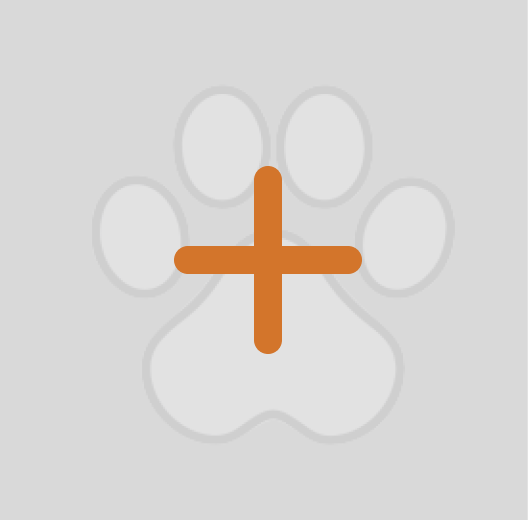
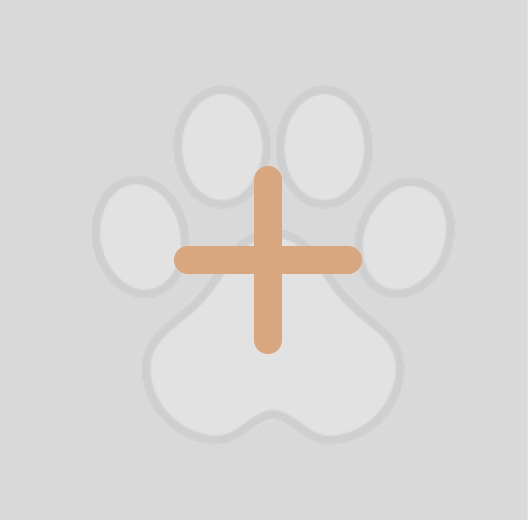
Added border to food image

Changed region(s): [[0.3333, 0.3077, 0.697, 0.6769]]

diff --git a/src/components/FoodImage.components.js b/src/components/FoodImage.components.js
@@ -1,48 +1,61 @@
 import React, { useState, useEffect } from 'react';
 import axios from "axios";
-import {ImageCircle} from './ImageCircle.components'
+import { ImageCircle } from './ImageCircle.components';
+import Spinner from './Spinner.components'; // Import your Spinner component
+import * as colors from './styles/Colors'
 
-const FoodImage = ({ foodItem, imageDataUrl, width = '150px', height='150px',  borderWidth = '2px', borderColor = 'white', onClick  }) => {
-  const [image, setImage] = useState(foodItem.image)
-  const backendEndpoint = process.env.REACT_APP_BACKEND_URL
+const FoodImage = ({ foodItem, imageDataUrl, width = '150px', borderRadius, borderWidth, borderColor, onClick , isEditing = true }) => {
+  const [image, setImage] = useState(foodItem.image);
+  const [loading, setLoading] = useState(true); // Added loading state
+  const backendEndpoint = process.env.REACT_APP_BACKEND_URL;
 
   useEffect(() => {
     console.log("FoodImage foodItem.image", foodItem.image);
     console.log("FoodImage imageDataUrl", imageDataUrl);
-     // Function to fetch image data when component mounts
-     if (imageDataUrl) {
-       setImage(imageDataUrl)
-     } else {
-        fetchImage()  
-     }
-  }, [foodItem, image]);
+    // Function to fetch image data when component mounts
+    if (imageDataUrl) {
+      setImage(imageDataUrl);
+      setLoading(false); // Set loading to false when imageDataUrl is available
+    } else {
+      fetchImage();
+    }
+  }, [foodItem, image, imageDataUrl]);
 
   // Function to fetch image data when component mounts
   const fetchImage = async () => {
     try {
-      const type = 'url'
+      const type = 'url';
       const result = await axios.get(`${backendEndpoint}/food/${foodItem?.userId}/${foodItem?._id}?type=${type}`);
       if (result.data) {
-        setImage(result.data)
+        setImage(result.data);
+        setLoading(false); // Set loading to false when the image is fetched
       }
       console.log("FoodImage", result.data);
-      return 
+      return;
     } catch (error) {
       console.log("Error fetching image:", error);
+      setLoading(false); // Set loading to false in case of an error
     }
   };
 
-  console.log("FoodImage  image",  image);
+  console.log("FoodImage  image", image);
   return (
     <div onClick={onClick}>
-      <ImageCircle
-            imageName={"add_food_placeholder_green.png"}
-            width= {width}
-            height={width}
-            imageDataUrl={imageDataUrl ? imageDataUrl : image}
-      />
+      {loading ? (
+        <Spinner/>  
+      ) : (
+        <ImageCircle
+          imageName={isEditing ? "add_food_placeholder_orange.png" : "food_placeholder.png"}
+          width={width}
+          height={width}
+          imageDataUrl={imageDataUrl ? imageDataUrl : image}
+          borderRadius={borderRadius}
+          borderWidth={borderWidth}
+          borderColor={colors.lightOrange}
+        />
+      )}
     </div>
   );
 };
 
-export default FoodImage ;
+export default FoodImage;

diff --git a/src/components/ChangeImageDialog.component.js b/src/components/ChangeImageDialog.component.js
@@ -1,7 +1,6 @@
 /** @jsxImportSource @emotion/react */
 
-import { useContext, useState, useEffect } from 'react'
-import { UserContext } from "../contexts/user.context"
+import { useRef, useState, useEffect } from 'react'
 import * as styles  from './styles/Profile.css'
 import {ButtonImage} from "./Buttons.components"
 import {Image} from './Image.components'
@@ -13,16 +12,28 @@ import '../components/styles/styles.css'
 
 const ChangeImageDialog = ({foodItem, onClose, setFoodItem}) => {
     const [imageSelected, setImageSelected] = useState( null);
-    const [croppedImage, setCroppedImage] = useState(null); 
     const backendEndpoint = process.env.REACT_APP_BACKEND_URL
+    const cropperRef = useRef(null);
+    let croppedImage = null; 
 
-    // Updates  the cropped image in the state
+    // Updates the cropped image in the state
     const onChange = (cropper) => {
-      if (cropper) {
-        setCroppedImage(cropper.getCanvas());
-      }
-    }
+      if (cropperRef.current) {
+        const canvas = cropperRef.current.getCanvas();
+        if (canvas) {
+          // Convert the canvas to a Blob
+          canvas.toBlob((blob) => {
+            if (blob) {
+              // Create a File from the Blob
+              const file = new File([blob], 'cropped_image.jpg', { type: 'image/jpeg' });
 
+              // Update the state with the cropped image File
+              croppedImage = file
+            }
+          }, 'image/jpeg');
+        }
+      }
+    };
     const handleSelect = () => {
       try {
         // Create an input element to trigger file selection
@@ -189,6 +200,7 @@ const isImageEmpty = () => {
       { imageSelected ? 
       (
          <Cropper
+            ref={cropperRef}
             src={URL.createObjectURL(imageSelected)}
             onChange={onChange}
             className="cropper"

diff --git a/src/components/ChangeAvatarDialog.component.js b/src/components/ChangeAvatarDialog.component.js
@@ -1,7 +1,6 @@
 /** @jsxImportSource @emotion/react */
 
-import { useContext, useState, useEffect } from 'react'
-import { UserContext } from "../contexts/user.context"
+import { useState, useEffect, useRef } from 'react'
 import * as styles  from './styles/Profile.css'
 import {ButtonImage} from "./Buttons.components"
 import {ImageCircle} from './ImageCircle.components'
@@ -13,13 +12,27 @@ import '../components/styles/styles.css'
 
 const ChangeAvatarDialog = ({updateCurrentProfile, onClose, profile }) => {
     const [imageSelected, setImageSelected] = useState( null);
-    const [croppedImage, setCroppedImage] = useState(null); 
+    // const [croppedImage, setCroppedImage] = useState(null); 
     const backendEndpoint = process.env.REACT_APP_BACKEND_URL
+    const cropperRef = useRef(null);
+    let croppedImage = null; 
 
-    // Updates  the cropped image in the state
+    // Updates the cropped image in the state
     const onChange = (cropper) => {
-      if (cropper) {
-        setCroppedImage(cropper.getCanvas());
+      if (cropperRef.current) {
+        const canvas = cropperRef.current.getCanvas();
+        if (canvas) {
+          // Convert the canvas to a Blob
+          canvas.toBlob((blob) => {
+            if (blob) {
+              // Create a File from the Blob
+              const file = new File([blob], 'cropped_image.jpg', { type: 'image/jpeg' });
+
+              // Update the state with the cropped image File
+              croppedImage = file
+            }
+          }, 'image/jpeg');
+        }
       }
     };
 
@@ -188,6 +201,7 @@ const isAvatarEmpty = () => {
       { imageSelected ? 
       (
          <Cropper
+            ref={cropperRef}
             src={URL.createObjectURL(imageSelected)}
             onChange={() => {onChange()}}
             className="cropper"

diff --git a/src/components/AddImageDialog.component.js b/src/components/AddImageDialog.component.js
@@ -1,7 +1,6 @@
 /** @jsxImportSource @emotion/react */
 
-import { useContext, useState, useEffect } from 'react'
-import { UserContext } from "../contexts/user.context"
+import { useRef, useState, useEffect } from 'react'
 import * as styles  from './styles/Profile.css'
 import {ButtonImage} from "./Buttons.components"
 import {ImageCircle} from './ImageCircle.components'
@@ -13,13 +12,26 @@ import '../components/styles/styles.css'
 
 const AddImageDialog = ({foodItem, onClose, setFoodItem, image, setImage}) => {
     const [imageSelected, setImageSelected] = useState( image);
-    const [croppedImage, setCroppedImage] = useState(null); 
     const backendEndpoint = process.env.REACT_APP_BACKEND_URL
+    const cropperRef = useRef(null);
+    let croppedImage = null; 
 
-    // Updates  the cropped image in the state
+    // Updates the cropped image in the state
     const onChange = (cropper) => {
-      if (cropper) {
-        setCroppedImage(cropper.getCanvas());
+      if (cropperRef.current) {
+        const canvas = cropperRef.current.getCanvas();
+        if (canvas) {
+          // Convert the canvas to a Blob
+          canvas.toBlob((blob) => {
+            if (blob) {
+              // Create a File from the Blob
+              const file = new File([blob], 'cropped_image.jpg', { type: 'image/jpeg' });
+
+              // Update the state with the cropped image File
+              croppedImage = file
+            }
+          }, 'image/jpeg');
+        }
       }
     };
 
@@ -192,6 +204,7 @@ const isImageEmpty = () => {
       { imageSelected ? 
       (
          <Cropper
+            ref={cropperRef}
             src={URL.createObjectURL(imageSelected)}
             onChange={onChange}
             className="cropper"

diff --git a/src/components/AddAvatarDialog.component.js b/src/components/AddAvatarDialog.component.js
@@ -1,7 +1,6 @@
 /** @jsxImportSource @emotion/react */
 
-import { useContext, useState, useEffect } from 'react';
-import { UserContext } from "../contexts/user.context";
+import { useRef, useState, useEffect } from 'react';
 import * as styles  from './styles/Profile.css'
 import {ButtonImage} from "./Buttons.components"
 import {ImageCircle} from './ImageCircle.components'
@@ -13,12 +12,25 @@ import '../components/styles/styles.css'
 
 const AddAvatarDialog = ({onSave, onDelete, onClose, avatar, profileId }) => {
     const [imageSelected, setImageSelected] = useState( null);
-    const [croppedImage, setCroppedImage] = useState(null); 
+    const cropperRef = useRef(null);
+    let croppedImage = null; 
 
-    // Updates  the cropped image in the state
+    // Updates the cropped image in the state
     const onChange = (cropper) => {
-      if (cropper) {
-        setCroppedImage(cropper.getCanvas());
+      if (cropperRef.current) {
+        const canvas = cropperRef.current.getCanvas();
+        if (canvas) {
+          // Convert the canvas to a Blob
+          canvas.toBlob((blob) => {
+            if (blob) {
+              // Create a File from the Blob
+              const file = new File([blob], 'cropped_image.jpg', { type: 'image/jpeg' });
+
+              // Update the state with the cropped image File
+              croppedImage = file
+            }
+          }, 'image/jpeg');
+        }
       }
     };
 
@@ -110,6 +122,7 @@ const isAvatarEmpty = () => {
       { imageSelected ? 
       (
          <Cropper
+            ref={cropperRef}
             src={URL.createObjectURL(imageSelected)}
             onChange={onChange}
             className="cropper"

diff --git a/src/components/AddFoodForm.component.js b/src/components/AddFoodForm.component.js
@@ -1,12 +1,11 @@
 /** @jsxImportSource @emotion/react */
 
-
 import * as styles  from './styles/AddFood.css'
 import {TitleAndDropdown, TitleButtonsAndTextField} from "./Form.components"
 import * as enums from "../helpers/Enums.helper"
 import FoodImage from './FoodImage.components'
 import {Image} from './Image.components'
-import { useState, useEffect } from "react";
+import { useState } from "react";
 import { ButtonText } from "./Buttons.components"
 
 const AddFoodForm = ({ foodItem, addFoodToMeal, setFoodItem, image, setImage }) => {
@@ -40,6 +39,7 @@ const AddFoodForm = ({ foodItem, addFoodToMeal, setFoodItem, image, setImage }) 
       <div style={styles.imageContainerStyle}> 
         <FoodImage 
           foodItem={foodItem}
+          isEditing={false}
         />
       </div>
 

diff --git a/src/components/styles/Colors.js b/src/components/styles/Colors.js
@@ -15,6 +15,7 @@ export const grayBackground = '#F5F4F3'
 export const lightBrown = '#E9E4D7'
 export const lightBrown2 = '#FEFDFA'
 export const darkOrange = '#562A0D'
+export const lightOrange = '#D8A67F'
 export const coffe ="#E8D8C9"
 export const red = '#9C4105'
 

diff --git a/src/components/styles/AddFood.css.js b/src/components/styles/AddFood.css.js
@@ -83,7 +83,6 @@ const addFoodFormStyle = {
 const addFoodTitleStyle = {
   textAlign: 'center',
   color: colors.lightGreen,
-  margin: '10px',
   fontSize: '17px',
   fontWeight: 'bold',
 };
